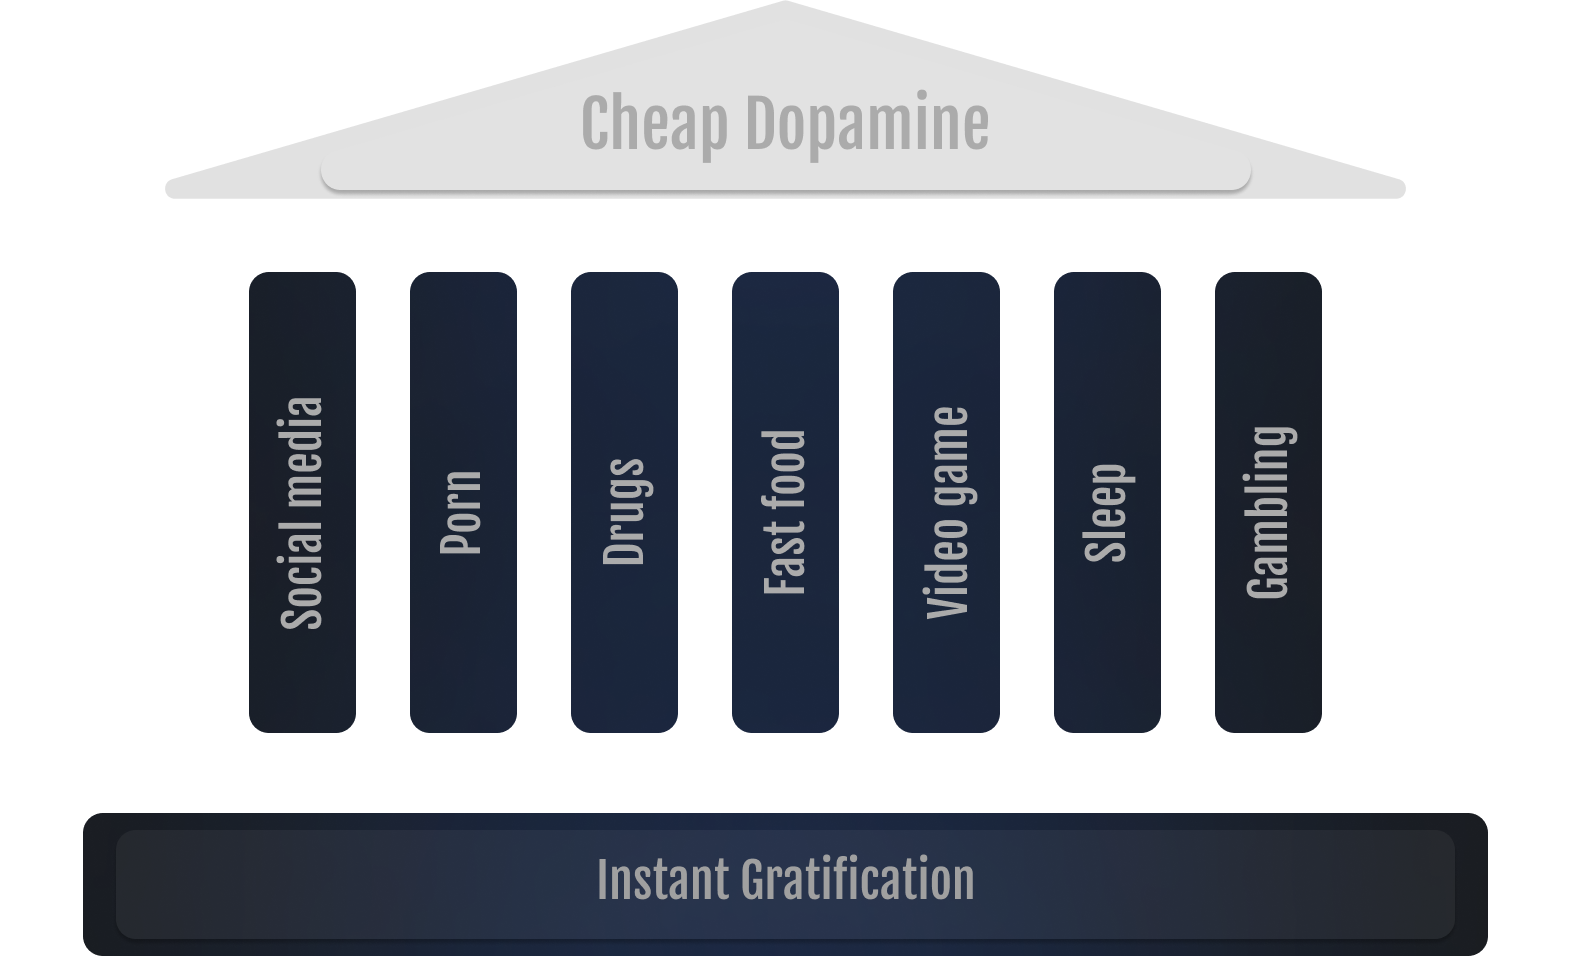
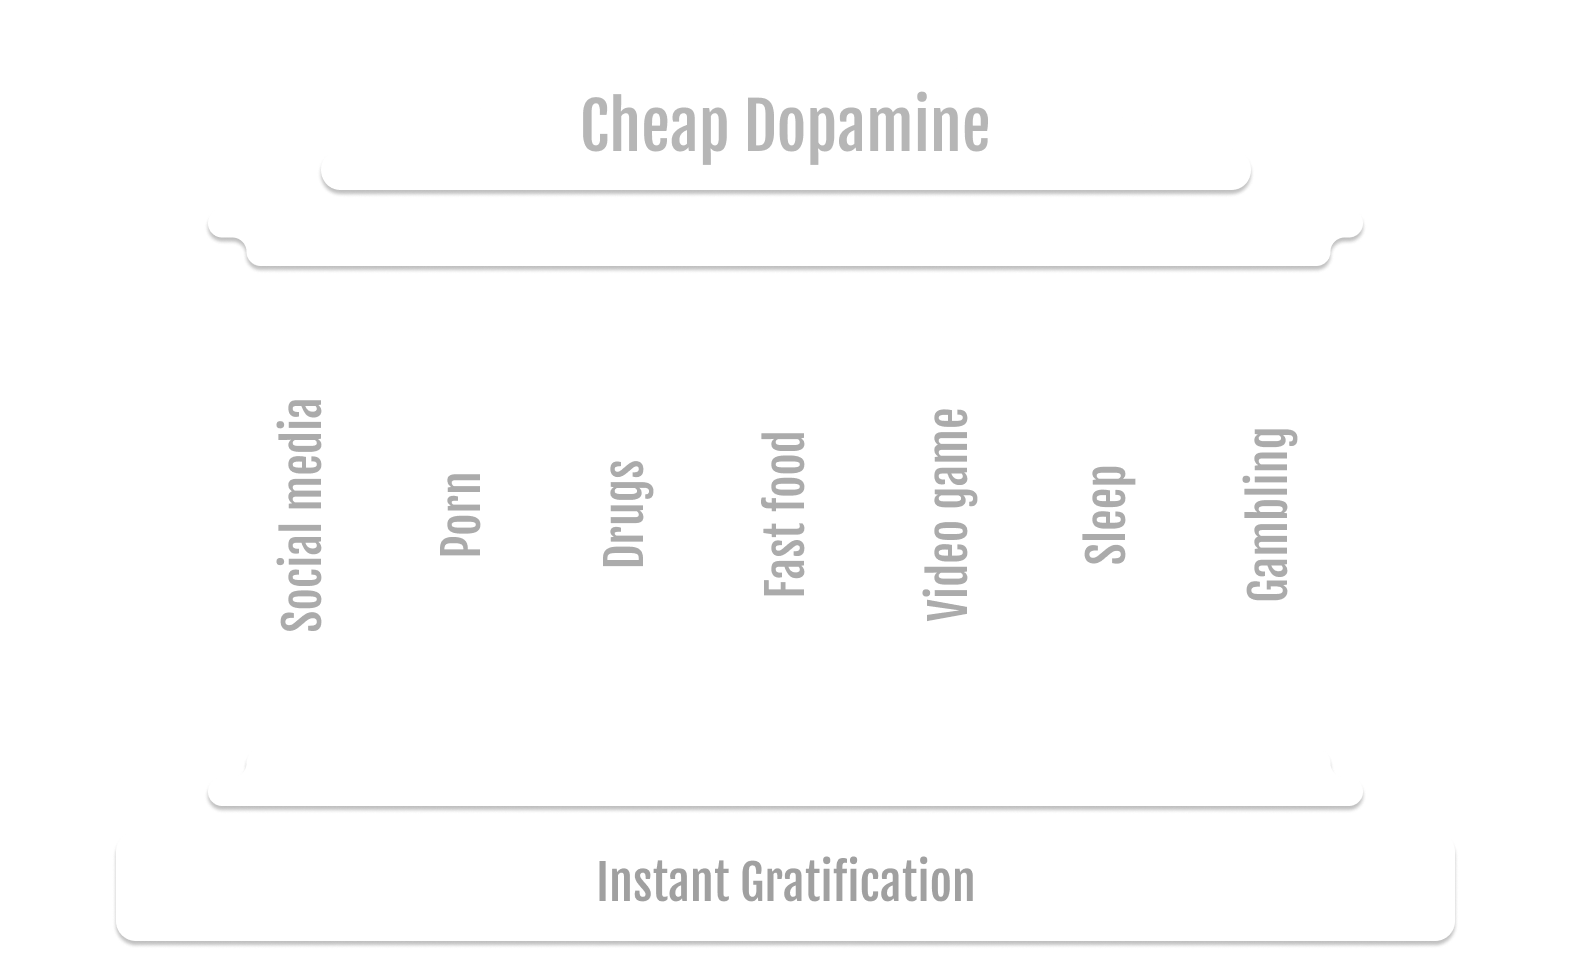
added about us header

diff --git a/pages/about-us.js b/pages/about-us.js
@@ -1,0 +1,24 @@
+import Head from 'next/head'
+import Image from 'next/image'
+import React from 'react'
+import GenericHeader from '../components/Generic/Header/GenericHeader'
+import Logo from '../public/logo-cropped.png'
+
+function AboutUs() {
+  return (
+    <div>
+      <Head>
+        <title>About Us</title>
+        <meta name="description" content="About Legacy Network" />
+        <link rel="icon" href="/favicon.ico" />
+      </Head>
+      <GenericHeader
+        rightObj={<Image src={Logo} alt="logo" />}
+        title="About Us"
+        subtitle={'& our goal'}
+      />
+    </div>
+  )
+}
+
+export default AboutUs

diff --git a/components/PersonalDevelopment/HealthCrisis/HealthCrisis.jsx b/components/PersonalDevelopment/HealthCrisis/HealthCrisis.jsx
@@ -3,7 +3,7 @@ import generics from '../../../styles/generics.module.scss';
 import DonutChart from '../DonutChart/DonutChart';
 import { style } from '@mui/system';
 import Image from 'next/image';
-import Pillar from '../../../public/illustrations/pillar.svg'
+import Pillar from '../../../public/illustrations/pillar.png'
 
 function HealthCrisis() {
   return (

diff --git a/pages/personal-development.js b/pages/personal-development.js
@@ -13,7 +13,7 @@ function PersonalDevelopment() {
     <div>
       <Head>
         <title>Personal Development</title>
-        <meta name="description" content="Legacy Network Application" />
+        <meta name="description" content="Personal Development" />
         <link rel="icon" href="/favicon.ico" />
       </Head>
       <GenericHeader
